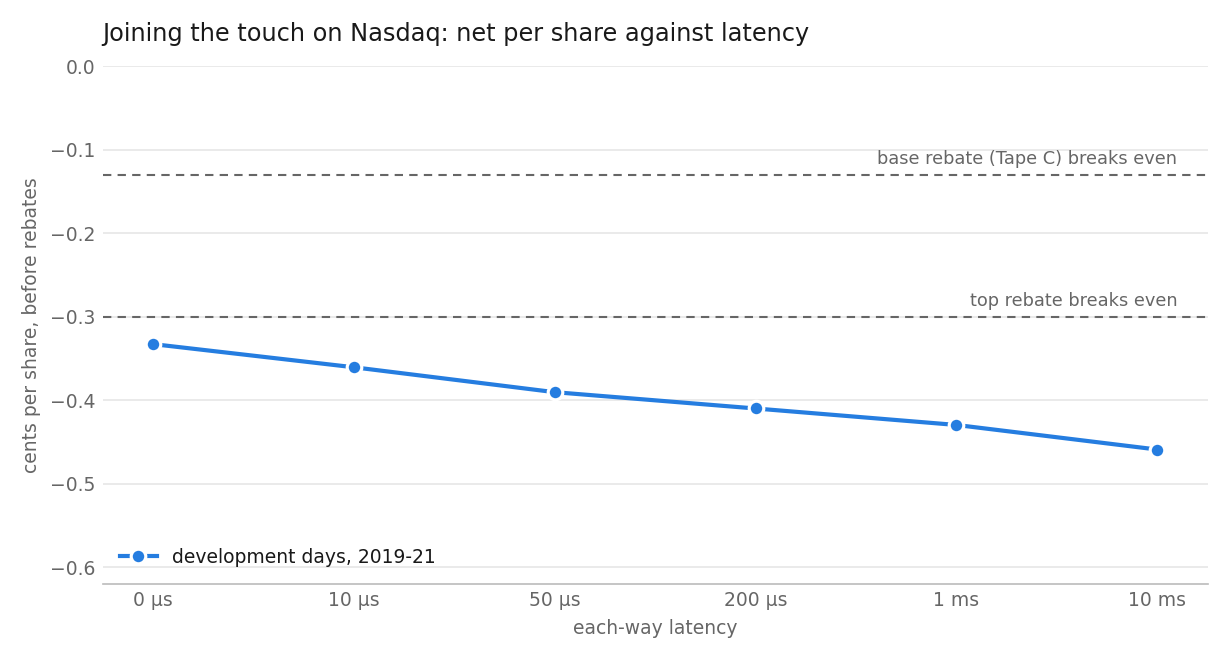
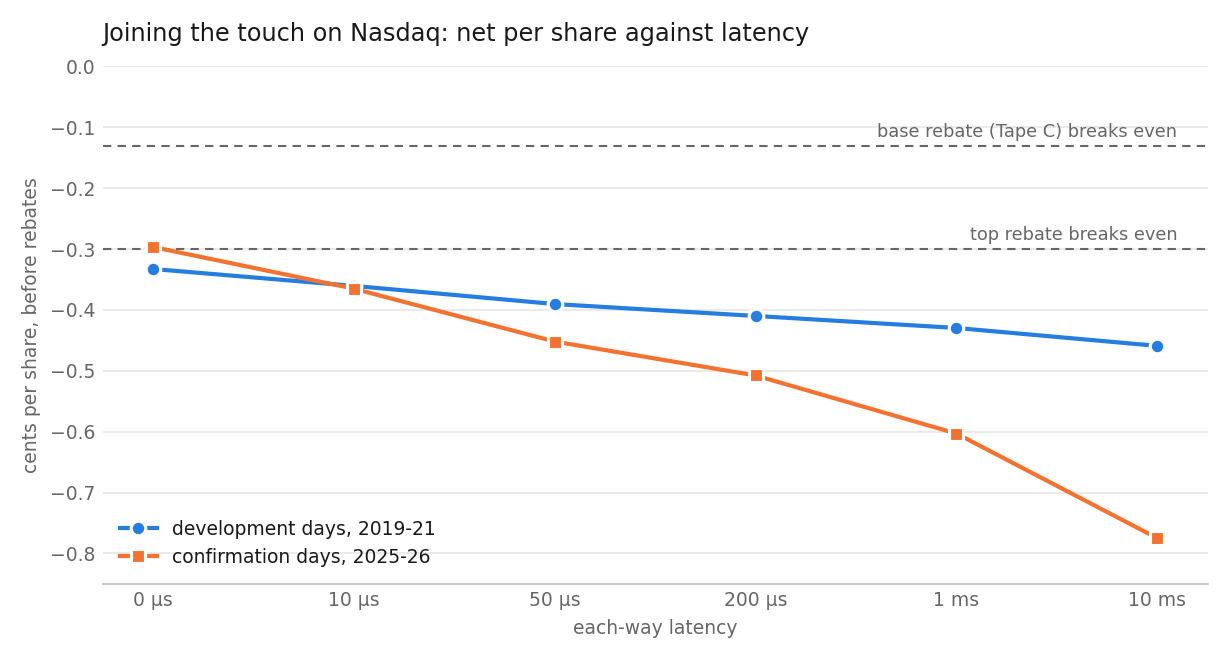
results: post-hoc participation check of the no-impact assumption

diff --git a/python/experiments/nasdaq_participation.py b/python/experiments/nasdaq_participation.py
@@ -1,0 +1,71 @@
+#!/usr/bin/env python3
+"""
+nasdaq_participation.py — post-hoc check of the Nasdaq study's no-impact
+assumption: how much of the market's volume did the simulated strategy trade?
+
+Written after the confirmation results were committed. It is not part of the
+pre-registered test and changes none of its verdicts.
+
+    python experiments/nasdaq_participation.py
+"""
+import sys
+from pathlib import Path
+
+import pandas as pd
+
+ROOT = Path(__file__).resolve().parents[2]
+sys.path.insert(0, str(ROOT / "python" / "analysis"))
+from itch_clone_validation import TRADE, load  # noqa: E402
+from nasdaq_study import CONFIRM_DAYS, DATA, DEV_DAYS, NAIVE, OUT, SYMBOLS  # noqa: E402
+
+START_US, END_US = 34_500_000_000, 57_300_000_000   # 09:35 to 15:55
+
+
+def session_volume() -> pd.DataFrame:
+    f = OUT / "session_volume.csv"
+    if not f.exists():
+        rows = []
+        for d in DEV_DAYS + CONFIRM_DAYS:
+            for s in SYMBOLS:
+                r = load(DATA / f"{d}_{s}.l3bin.gz")
+                tod = r["ts"] % 86_400_000_000
+                m = (r["type"] == TRADE) & (tod >= START_US) & (tod < END_US)
+                rows.append((d, s, int(r["qty"][m].sum())))
+        pd.DataFrame(rows, columns=["day", "symbol", "volume"]).to_csv(f, index=False)
+    return pd.read_csv(f)
+
+
+def main() -> int:
+    vol = session_volume()
+    md = ["# Participation (post hoc, not pre-registered)\n",
+          "Share of Nasdaq's printed session volume that the simulated naive strategy traded. The exchange model assumes "
+          "our orders change nothing, which is reasonable at a few percent and is not at tens of percent. Dollar totals "
+          "scale with this volume, so read per-share numbers, and read the high-participation symbols with the most "
+          "caution. No pre-registered verdict depends on this file.\n"]
+    runs = {"development": "dev_latency.csv", "confirmation": "confirm.csv"}
+    data = {k: pd.read_csv(OUT / f).query("args == @NAIVE").merge(vol, on=["day", "symbol"]) for k, f in runs.items()}
+    share = lambda g: g.maker_shares.sum() / g.volume.sum()
+    md += ["| latency µs | " + " | ".join(data) + " |", "|---|---|---|"]
+    for lat in sorted(data["confirmation"].latency_us.unique()):
+        md.append(f"| {lat:,} | " + " | ".join(f"{share(x[x.latency_us == lat]):.1%}" for x in data.values()) + " |")
+    c = data["confirmation"]
+    z = c[c.latency_us == 0].groupby("symbol", sort=False)[["net_top", "maker_shares"]].sum()
+    per = z.net_top / z.maker_shares * 100
+    md += ["\n## Confirmation days by symbol\n",
+           "H5 pools by share volume, so it is mostly QQQ and NVDA. By symbol:\n",
+           "| symbol | participation at 50 µs | share of pooled 0 µs volume | net at top rebate, 0 µs (c/share) |", "|---|---|---|---|"]
+    for s in z.index:
+        md.append(f"| {s} | {share(c[(c.latency_us == 50) & (c.symbol == s)]):.1%} | "
+                  f"{z.maker_shares[s] / z.maker_shares.sum():.0%} | {per[s]:+.3f} |")
+    md.append(f"\nAcross symbols: median {per.median():+.3f}, range {per.min():+.3f} to {per.max():+.3f}, "
+              f"{int((per.abs() <= 0.10).sum())} of {len(per)} within ±0.10 c/share, {int((per > 0).sum())} positive.")
+    days = c[c.latency_us == 50].groupby("day").net_top.sum()
+    md += ["\n## Daily naive net at the top rebate, 50 µs (the series behind H1)\n", "| day | $ |", "|---|---|"]
+    md += [f"| {d} | {v:+,.0f} |" for d, v in days.items()]
+    (OUT / "PARTICIPATION.md").write_text("\n".join(md) + "\n")
+    print("\n".join(md))
+    return 0
+
+
+if __name__ == "__main__":
+    sys.exit(main())

diff --git a/python/experiments/nasdaq_plots.py b/python/experiments/nasdaq_plots.py
@@ -45,7 +45,7 @@ def latency():
         ax.text(len(lats) - 0.9, level + 0.008, text, ha="right", va="bottom", fontsize=8.5, color=MUTED)
     ax.set_xticks(range(len(lats)))
     ax.set_xticklabels([f"{l:,} µs" if l < 1000 else f"{l // 1000} ms" for l in lats])
-    ax.set_ylim(-0.62, 0.0)
+    ax.set_ylim(-0.85, 0.0)
     ax.grid(axis="y", color=GRID, lw=0.8)
     ax.set_xlabel("each-way latency", color=MUTED, fontsize=9)
     ax.set_ylabel("cents per share, before rebates", color=MUTED, fontsize=9)

diff --git a/results/nasdaq/PARTICIPATION.md b/results/nasdaq/PARTICIPATION.md
@@ -1,0 +1,48 @@
+# Participation (post hoc, not pre-registered)
+
+Share of Nasdaq's printed session volume that the simulated naive strategy traded. The exchange model assumes our orders change nothing, which is reasonable at a few percent and is not at tens of percent. Dollar totals scale with this volume, so read per-share numbers, and read the high-participation symbols with the most caution. No pre-registered verdict depends on this file.
+
+| latency µs | development | confirmation |
+|---|---|---|
+| 0 | 8.8% | 14.1% |
+| 10 | 8.7% | 14.7% |
+| 50 | 10.4% | 21.3% |
+| 200 | 11.4% | 24.0% |
+| 1,000 | 13.1% | 25.5% |
+| 10,000 | 12.7% | 21.4% |
+
+## Confirmation days by symbol
+
+H5 pools by share volume, so it is mostly QQQ and NVDA. By symbol:
+
+| symbol | participation at 50 µs | share of pooled 0 µs volume | net at top rebate, 0 µs (c/share) |
+|---|---|---|---|
+| SIRI | 21.5% | 1% | -0.055 |
+| INTC | 10.6% | 12% | +0.102 |
+| CSCO | 22.5% | 5% | -0.072 |
+| CMCSA | 4.9% | 2% | -0.085 |
+| AMD | 10.4% | 3% | +0.092 |
+| MU | 10.1% | 3% | -0.506 |
+| F | 3.0% | 1% | -0.062 |
+| BAC | 13.9% | 3% | -0.048 |
+| PFE | 6.0% | 1% | -0.043 |
+| T | 4.3% | 1% | -0.110 |
+| AAPL | 18.5% | 8% | -0.021 |
+| MSFT | 16.3% | 5% | -0.172 |
+| QQQ | 47.0% | 26% | +0.023 |
+| NVDA | 25.4% | 31% | +0.054 |
+
+Across symbols: median -0.051, range -0.506 to +0.102, 10 of 14 within ±0.10 c/share, 4 positive.
+
+## Daily naive net at the top rebate, 50 µs (the series behind H1)
+
+| day | $ |
+|---|---|
+| 2025-12-08 | -22,688 |
+| 2025-12-09 | -15,834 |
+| 2025-12-10 | -6,547 |
+| 2025-12-11 | -10,273 |
+| 2025-12-12 | -22,955 |
+| 2026-05-15 | -34,747 |
+| 2026-05-18 | -90,206 |
+| 2026-06-12 | +13,879 |
